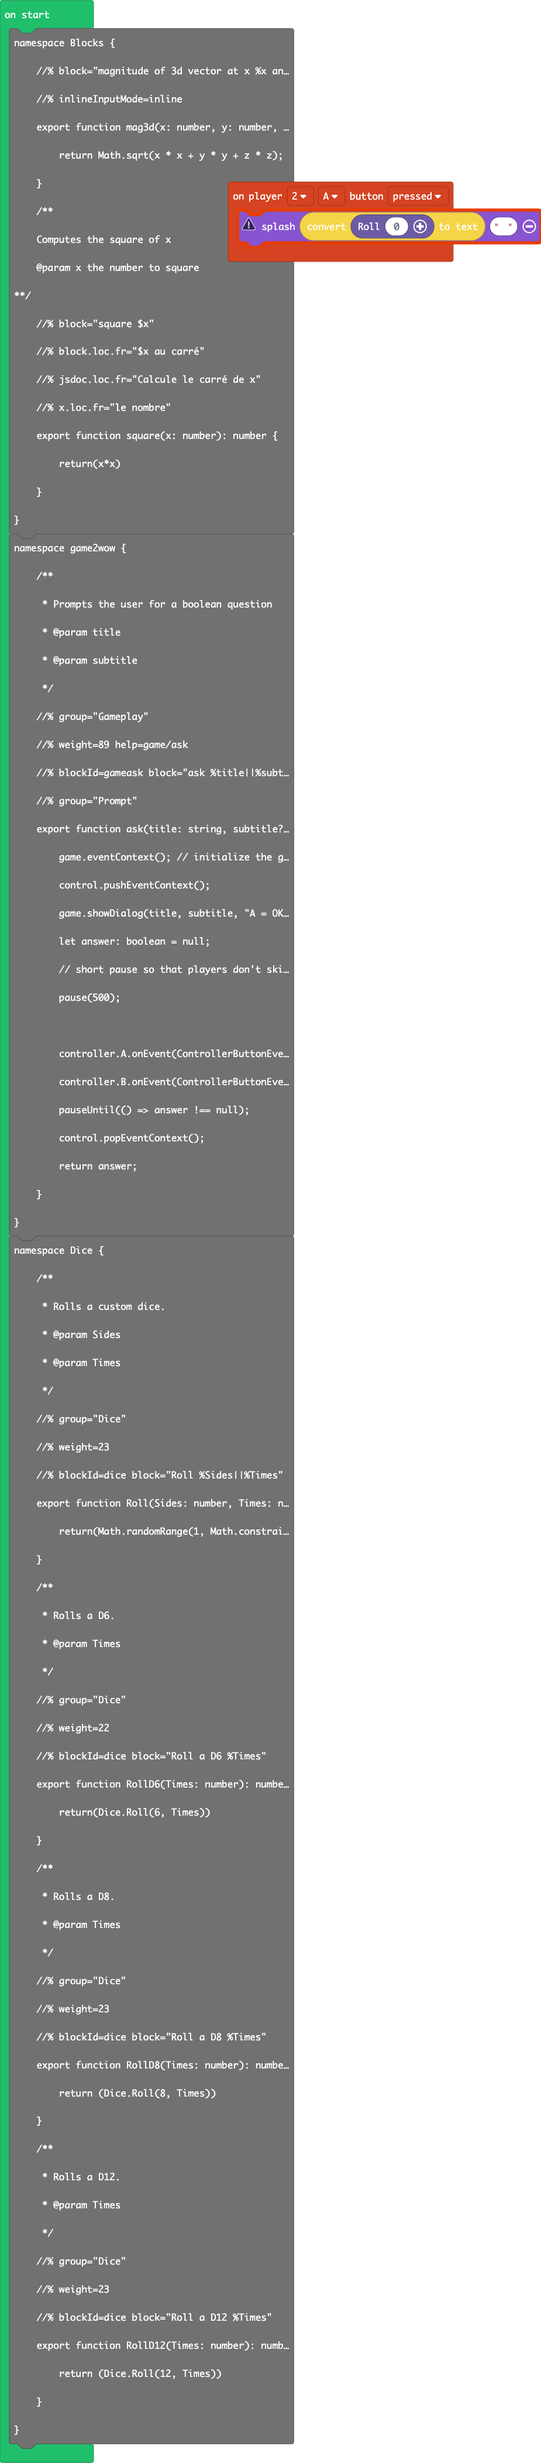
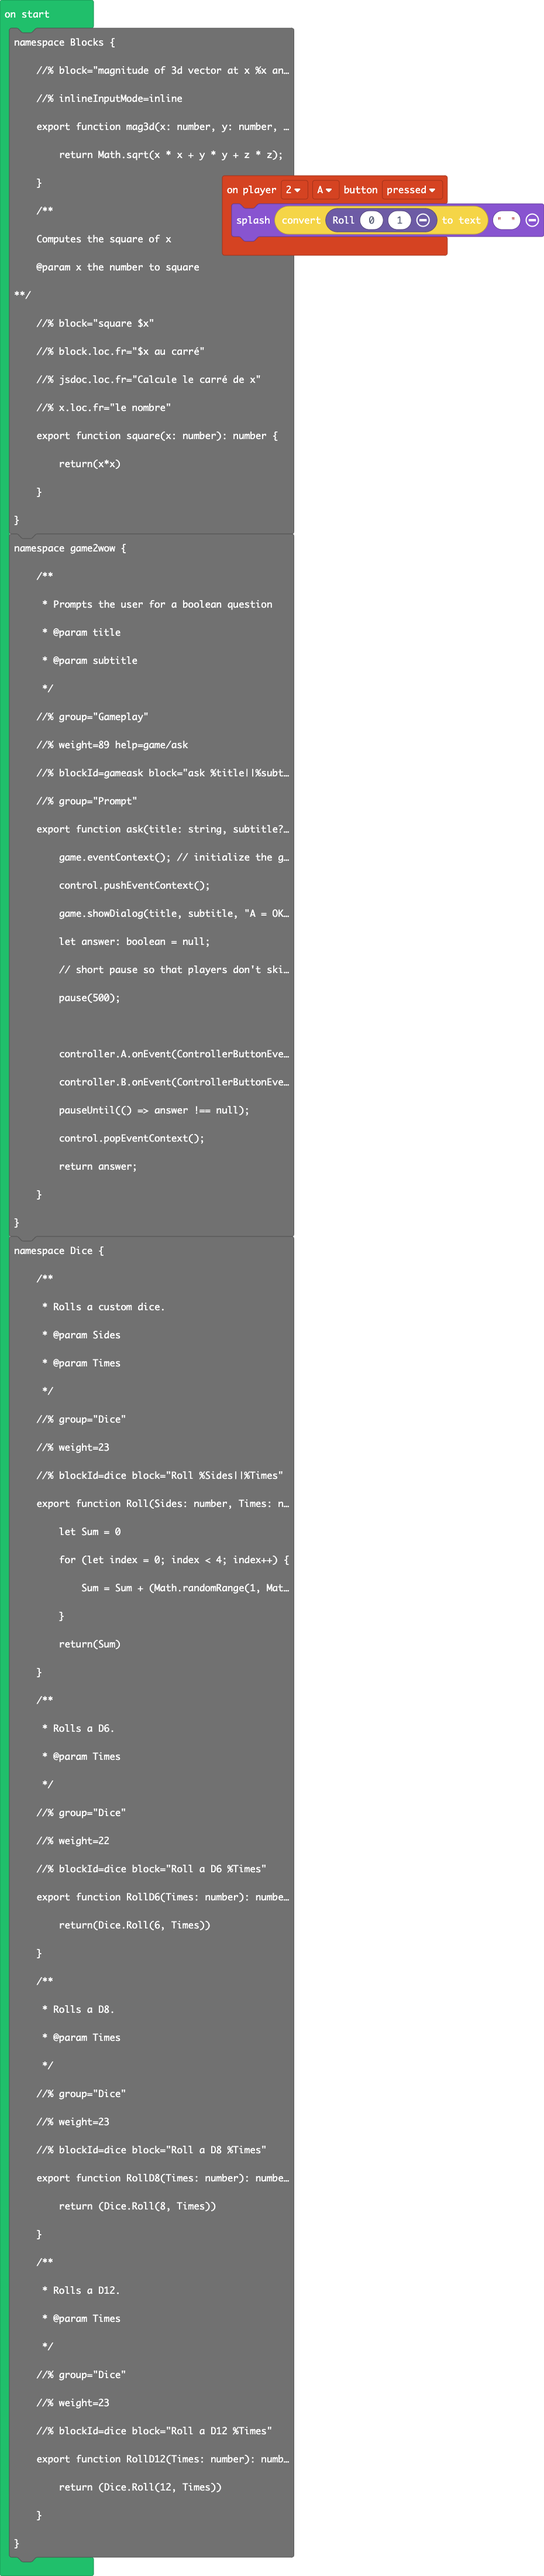
Update main.blocks, main.ts

diff --git a/main.ts b/main.ts
@@ -52,7 +52,7 @@ namespace Dice {
      */
     //% group="Dice"
     //% weight=23
-    //% blockId=dice block="Roll %Sides||%Times"
+    //% blockId=dice block="Roll %Sides %Times"
     export function Roll(Sides: number, Times: number): number {
         let Sum = 0
         for (let index = 0; index < 4; index++) {
